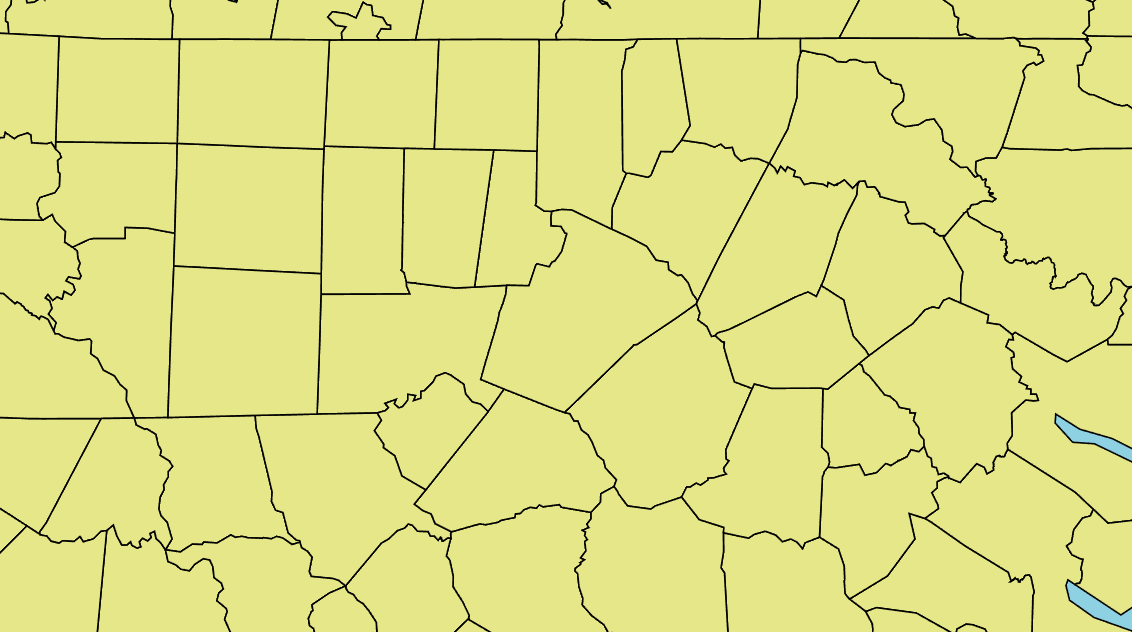
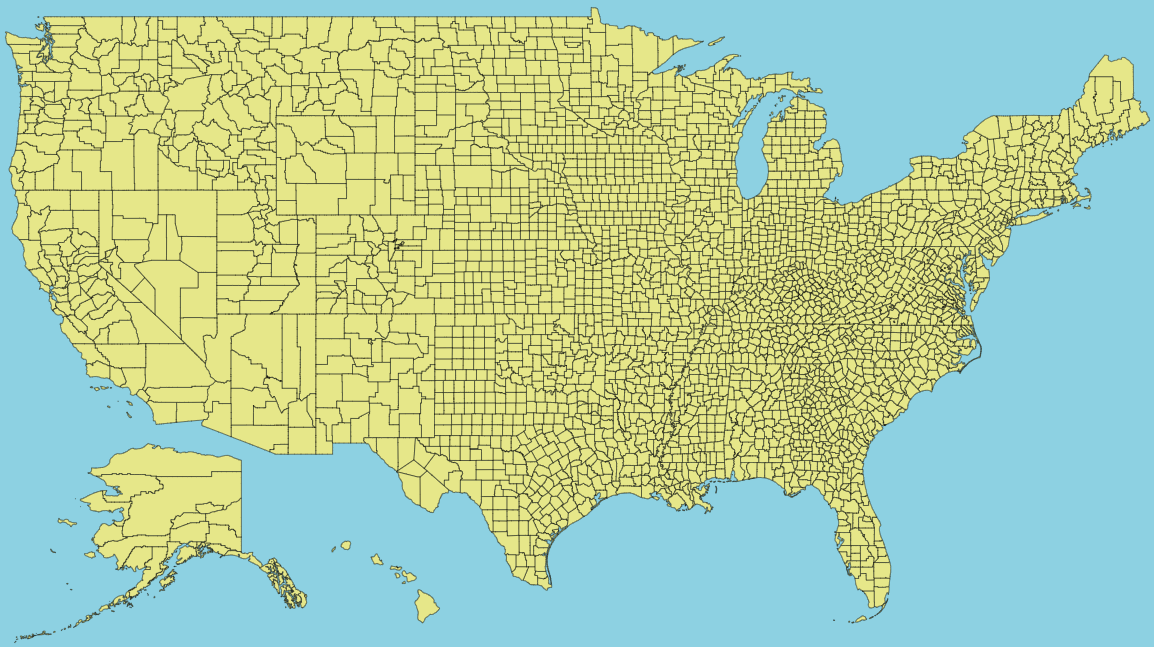
If a thumbnail is not selected for a custom map then a default thumbnail is used

diff --git a/app/src/api/APIRoutes/MapRoutes.js b/app/src/api/APIRoutes/MapRoutes.js
@@ -68,11 +68,15 @@ MapAPIRouter.delete('/maps/:mapId', async (req, res) => {
         return res.status(500).json({error:err, message: 'Error with DELETE request to /maps/:mapId'});
     });
 
-    // Once the map is successfully deleted we can delete the thumbnail
-    util.deleteFileFromDirectory("/app/uploads/thumbnails", returnedMap.map_thumbnail ).catch( err => {
-        // Log error but don't return error
-        console.error( `Couldn't delete thumbnail for map ${mapId}`, err )
-    });
+    // Stop from deleting default maps
+    if ( !returnedMap.map_thumbnail.startsWith( "default" ) ) {
+        // Once the map is successfully deleted we can delete the thumbnail
+        util.deleteFileFromDirectory("/app/uploads/thumbnails", returnedMap.map_thumbnail ).catch( err => {
+            // Log error but don't return error
+            console.error( `Couldn't delete thumbnail for map ${mapId}`, err )
+        });
+    }
+    
 
     res.json({message: `Map ${mapId} successfully deleted`});
 });

diff --git a/app/static/js/create/create.js b/app/static/js/create/create.js
@@ -176,7 +176,10 @@ createForm.addEventListener('submit', async e => {
  * @param {SubmitEvent} e 
  */
 async function createCustomMap( e ) {
-    const thumbnailRes = await APIClient.uploadThumbnail( e.target ).catch( err => {
+    let thumbnail;
+    await APIClient.uploadThumbnail( e.target ).then( async res => {
+        thumbnail = ( res.status === 400 ) ? "default/Test_Map_Thumbnail.png" : ( await res.json() ).filename;
+    }).catch( err => {
         console.error( err );
     });
     const mapData = new MMap({
@@ -184,7 +187,7 @@ async function createCustomMap( e ) {
         map_id : ( await APIClient.getMaps( "map_id > -1", 'map_id DESC' ) )[0].map_id + 1,
         map_scale : 1.0,
         map_name : mapName.value,
-        map_thumbnail : ( await thumbnailRes.json() ).filename,
+        map_thumbnail : thumbnail,
         map_primary_color_R : parseInt( mapColor.value.substr(1,2), 16 ),
         map_primary_color_G : parseInt( mapColor.value.substr(3,2), 16 ),
         map_primary_color_B : parseInt( mapColor.value.substr(5,2), 16 ),

diff --git a/app/static/js/index.js b/app/static/js/index.js
@@ -32,7 +32,7 @@ async function populateMaps( where, orderBy ) {
 
             mapButtonElement.id = map.map_id;
             mapButtonElement.href = '/game?mapId=' + map.map_id;
-            mapButtonElement.style["background-image"] = `url('/uploads/thumbnails/${map.map_thumbnail}')`;;
+            mapButtonElement.style["background-image"] = `url('/uploads/thumbnails/${map.map_thumbnail}')`;
             mapButtonLabel.textContent = map.map_name;
             mapButtonTop.style["background-image"] = `linear-gradient( to top, rgba(${map.map_primary_color_R},${map.map_primary_color_G},${map.map_primary_color_B},0.5), rgba(${map.map_primary_color_R},${map.map_primary_color_G},${map.map_primary_color_B},0))`;
             mapButtonBottom.style["background-color"] = `rgba(${map.map_primary_color_R},${map.map_primary_color_G},${map.map_primary_color_B},0.5)`;

diff --git a/README.md b/README.md
@@ -66,6 +66,8 @@
 ## Ongoing
 
 ### Frontend
+- If a thumbnail is not selected for a custom map then a default thumbnail is used
+
 ### Backend/Technical
 ### Bug Fixes
 